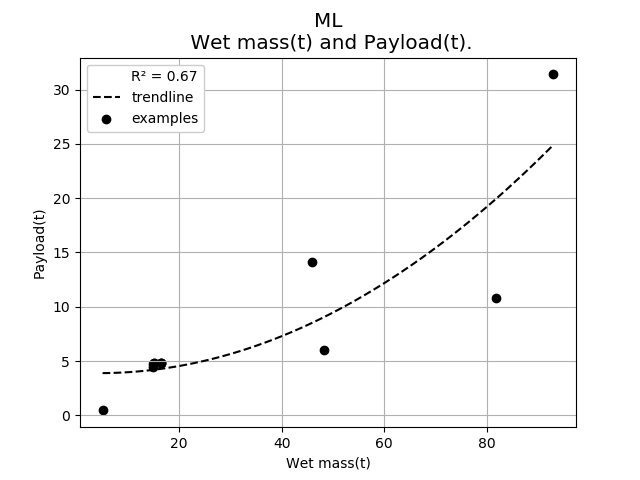
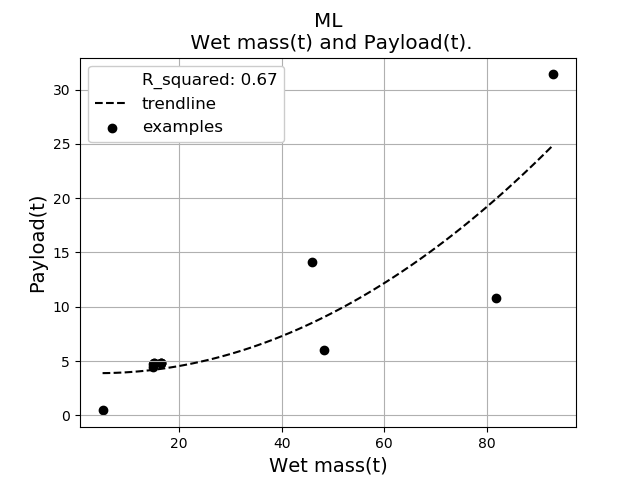
plots now have colours, and equation of the line in the legend

diff --git a/database_slicer.py b/database_slicer.py
@@ -17,35 +17,53 @@ def plot(x, y, xlabel, ylabel, group):
     x = x/1000
     y = y/1000
     plt.figure()
-    plt.scatter(x, y, color = "black")
+    plt.scatter(x, y, color = "tab:blue")
     # making the trendline
     z = np.polyfit(x, y, 2)
     p = np.poly1d(z)
     R_square = np.round(r2_score(p(x), y), 2)
-        
+    eqn_strng = "{0}x\u00b2+{1}x+{2}".format(np.round(z[0]*1000), 
+                                              np.round(z[1]*1000), 
+                                              np.round(z[2]*1000))    
     
     #Title and axes
     plt.title("{0}\n {1} and {2}.".format(group, xlabel, ylabel), fontsize = "x-large")
-    plt.xlabel(xlabel)
-    plt.ylabel(ylabel)
+    plt.xlabel(xlabel, fontsize = 14)
+    plt.ylabel(ylabel, fontsize = 14)
     #making points to draw the line for the polynomial of best fit.
     smooth = np.linspace(min(x), max(x), 100)
     #blank dot so that R squared will appear in the legend
+    plt.plot([], [], ' ', label="equation: {}".format(eqn_strng))
     plt.plot([], [], ' ', label="R_squared: {}".format(R_square))
     
-    plt.plot(smooth,p(smooth),"--", color = "black")    
-    plt.legend(["R_squared: {}".format(R_square), "trendline", "examples" ], framealpha =1)
+    plt.plot(smooth,p(smooth),"--", color = "tab:blue")    
+    plt.legend(["R\u00b2 = {}".format(R_square), 
+                "y={}".format(eqn_strng), 
+                "trendline", 
+                "examples"], 
+                framealpha =1, prop={"size":9.5})
     plt.grid()
+    
+
+    
+#    return z
+#    if datalabels == 1:
+#        n = x.index.tolist()
+##        for i in range(0, len(n)-1):
+##            if n[i][:5] == n[i][:5]:
+###                plt.annotate(txt, (x[i], y[i]))
+##                print(n[i])
+    plt.savefig(r"C:\Users\Conall De Paor\Desktop\Supaero\Research Project\Sizing-Tool\Results\{0}_{1}_{2}_Annotated".format(group, xlabel, ylabel))
 
 #%%
 #Plot what you want
-#plot(UL["mass"], UL["dry mass"], "Wet mass (t)", "Dry mass(t)", "UL")
-plot(UL["mass"][:-5], UL["payload"][:-5], "Wet mass(t)", "Payload(t)", "UL")
-#plot(UL["propellent"], UL["dry mass"], "Mass(t)", "Dry mass(t)", "UL")
+plot(UL["mass"], UL["dry mass"], "Wet mass (t)", "Dry mass(t)", "UL")
+plot(UL["mass"][:-6], UL["payload"][:-6], "Wet mass(t)", "Payload(t)", "UL")
+plot(UL["propellent"], UL["dry mass"], "Propellent(t)", "Dry mass(t)", "UL")
 
-#plot(ML["mass"], ML["dry mass"], "Wet mass(t)", "Dry mass(t)", "ML")
-#plot(ML["mass"], ML["payload"], "Wet mass(t)", "Payload(t)", "ML")
-#plot(ML["propellent"], ML["dry mass"], "Mass(t)", "Dry mass(t)", "ML")
+plot(ML["mass"], ML["dry mass"], "Wet mass(t)", "Dry mass(t)", "ML")
+plot(ML["mass"], ML["payload"], "Wet mass(t)", "Payload(t)", "ML")
+plot(ML["propellent"], ML["dry mass"], "Propellent(t)", "Dry mass(t)", "ML")
 
 
 
